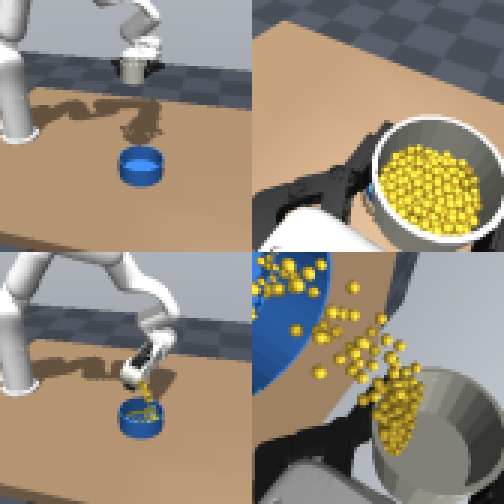
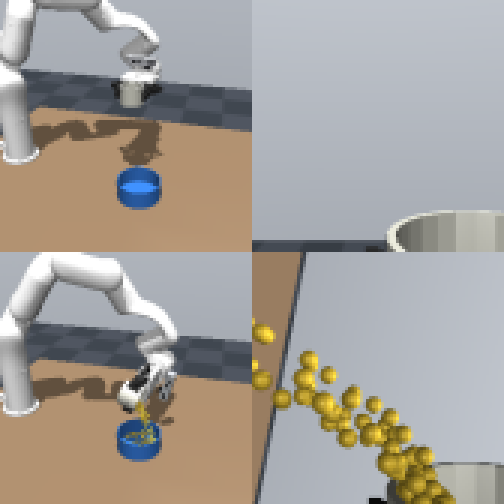
sim_xarm: RealSense D435 cameras, wrist D435 body on the gripper housing (lab photo), demo states saved by default
- Both cameras D435: colour 640x480, vertical FOV 42 deg. Wrist D435 as mounted in the lab:
  90x25x25 mm housing on a 12 mm bracket on the housing top near the flange, looking straight
  forward; collision body, visible in the viewer and the side camera. Side camera re-aimed so the
  whole pour stays in frame.
- m4_generate saves MuJoCo states by default (--no-states for timing only); m5_export stops with a
  clear message on episodes without states or images.
- view.py --camera eye_in_hand|agentview.
- Checks: 100 plans with the camera body contact-free, M1 f 1.000, 5-demo export loads in
  diffusion_policy, camera/fault tests pass.

Claude-Session: https://claude.ai/code/session_01ABg54f59N8u1Lt2EQujtwg

diff --git a/sim_xarm/favor_xarm/scene.py b/sim_xarm/favor_xarm/scene.py
@@ -273,6 +273,55 @@ def _add_cameras(spec, cfg, gripper_body):
         else:
             cam.fovy = float(intr["fovy_deg"])
         cam.resolution = [intr["width"], intr["height"]]
+        if c.get("body", {}).get("enabled", False):
+            _add_camera_body(spec, parent, name, pos, quat, c["body"])
+
+
+def _add_camera_body(spec, parent, name, pos, quat, b):
+    """Physical camera housing (and optional bracket) for a camera, so it shows up in the viewer and
+    in the other camera's images and is part of the collision checks.
+
+    b.size     : housing [width (camera x), height (camera y), depth (along the optical axis)], m.
+                 RealSense D435: 90 x 25 x 25 mm.
+    b.lens     : position of the colour lens on the front face relative to the face centre, in the
+                 camera frame [x, y] (x = image right, y = image up). The camera pose (extrinsics)
+                 is the colour lens; the housing is placed so that lens sits at this offset.
+    b.lenses_x : x of the visible lens discs on the front face (decoration only, no collision).
+    b.bracket  : {from: point on the parent body (parent frame), at_x: x on the housing bottom face
+                 where the bracket meets it (camera frame), width, thickness}.
+    The housing lies behind the image plane (the camera looks along -z), so it never occludes its
+    own image."""
+    R = np.zeros(9)
+    mujoco.mju_quat2Mat(R, np.asarray(quat, float))
+    R = R.reshape(3, 3)
+    w, hgt, dep = b.get("size", [0.090, 0.025, 0.025])
+    lx, ly = b.get("lens", [0.0, 0.0])
+    spec.add_material(name=f"{name}_body_mat", rgba=b.get("rgba", [0.70, 0.71, 0.73, 1.0]))
+    spec.add_material(name=f"{name}_bracket_mat", rgba=[0.08, 0.08, 0.09, 1.0])
+    face = np.asarray(pos, float) - R @ np.array([lx, ly, 0.0])          # front-face centre
+    centre = face + R @ np.array([0.0, 0.0, dep / 2 + 0.001])
+    parent.add_geom(name=f"{name}_housing", type=mujoco.mjtGeom.mjGEOM_BOX, size=[w / 2, hgt / 2, dep / 2],
+                    pos=centre.tolist(), quat=list(quat), material=f"{name}_body_mat", mass=b.get("mass", 0.072))
+    for k, x in enumerate(b.get("lenses_x", [lx])):
+        lp = face + R @ np.array([x, ly, 0.0005])
+        parent.add_geom(name=f"{name}_lens{k}", type=mujoco.mjtGeom.mjGEOM_CYLINDER, size=[0.0045, 0.0004, 0],
+                        pos=lp.tolist(), quat=list(quat), rgba=[0.02, 0.02, 0.03, 1], contype=0, conaffinity=0,
+                        group=1, mass=0.0)
+    br = b.get("bracket")
+    if br:
+        a = np.asarray(br["from"], float)
+        top = centre + R @ np.array([br.get("at_x", 0.0), -hgt / 2, 0.0])
+        v = top - a
+        L = float(np.linalg.norm(v))
+        zax = v / L
+        ref = R[:, 2] if abs(np.dot(R[:, 2], zax)) < 0.9 else R[:, 0]   # bracket plate faces the optical axis
+        xax = np.cross(ref, zax)
+        xax /= np.linalg.norm(xax)
+        Rb = np.stack([xax, np.cross(zax, xax), zax], axis=1)
+        parent.add_geom(name=f"{name}_bracket", type=mujoco.mjtGeom.mjGEOM_BOX,
+                        size=[br.get("width", 0.020) / 2, br.get("thickness", 0.004) / 2, L / 2],
+                        pos=(a + v / 2).tolist(), quat=_quat_from_mat(Rb).tolist(),
+                        material=f"{name}_bracket_mat", mass=b.get("bracket_mass", 0.02))
 
 
 def build_scene(cfg, n_particles=None):

diff --git a/sim_xarm/scripts/m4_generate.py b/sim_xarm/scripts/m4_generate.py
@@ -4,11 +4,12 @@ Each episode: reset (bowl at a grid cell or uniform sample, seed) -> scripted pl
 commanded joint targets executed through the command layer -> weigh after settle_after.
 Per episode an .npz is written with, per policy step t (observation BEFORE action t):
   actions (T,7) commanded joint targets, robot0_eef_pos (T,3), robot0_eef_quat (T,4, xyzw),
-  robot0_joint_pos (T,7), optionally states (T, nq) float32 for offline rendering (--save-states)
+  robot0_joint_pos (T,7), states (T, nq) float32 for offline image rendering by m5_export.py
+  (on by default; --no-states only for timing runs: such episodes cannot be exported)
   and images (--images), plus the plan parameters and the metrics.
 A summary.csv row per episode is appended; scripts/m4_report.py builds the per-cell table.
 
-  python scripts/m4_generate.py --out out/m4 --reps 10 --workers 8 --save-states
+  OMP_NUM_THREADS=1 python scripts/m4_generate.py --out out/m4 --reps 10 --workers 10
 """
 import argparse
 import csv
@@ -81,7 +82,8 @@ def main():
     ap.add_argument("--cells", type=str, default=None, help="comma-separated grid indices (default all)")
     ap.add_argument("--base-seed", type=int, default=0)
     ap.add_argument("--workers", type=int, default=1)
-    ap.add_argument("--save-states", action="store_true")
+    ap.add_argument("--no-states", action="store_true", help="do not save MuJoCo states (episodes then cannot be exported)")
+    ap.add_argument("--save-states", action="store_true", help=argparse.SUPPRESS)   # kept for old commands; now the default
     ap.add_argument("--images", action="store_true", help="render the policy images online")
     args = ap.parse_args()
     cfg = from_args(args)
@@ -96,14 +98,14 @@ def main():
         for rep in range(args.reps):
             for gi in cells:
                 seed = args.base_seed + 1000 * gi + rep
-                jobs.append((cfg, ep, gi, rep, seed, None, out, args.save_states, args.images))
+                jobs.append((cfg, ep, gi, rep, seed, None, out, not args.no_states, args.images))
                 ep += 1
     else:
         rng = np.random.default_rng(args.base_seed)
         s, c = cfg["task"]["grid_size"], np.array(cfg["task"]["grid_center"])
         for ep in range(args.n):
             xy = c + rng.uniform(-s / 2, s / 2, size=2)
-            jobs.append((cfg, ep, None, ep, args.base_seed + ep, xy, out, args.save_states, args.images))
+            jobs.append((cfg, ep, None, ep, args.base_seed + ep, xy, out, not args.no_states, args.images))
     done = set()
     summ = os.path.join(out, "summary.csv")
     if os.path.exists(summ):

diff --git a/sim_xarm/scripts/view.py b/sim_xarm/scripts/view.py
@@ -4,6 +4,7 @@
   python scripts/view.py --cells 0,24 --speed 0.5
   python scripts/view.py --idle                  # robot holds home, beads settle; inspect the scene
   python scripts/view.py --fault-joint 6         # locked J6 (no correction) to see the effect
+  python scripts/view.py --camera eye_in_hand    # look through the wrist camera (or agentview)
 
 Viewer: drag to rotate / right-drag to pan / scroll to zoom; '[' and ']' cycle the scene cameras
 (agentview = side camera, eye_in_hand = wrist camera), Esc returns to the free camera.
@@ -69,6 +70,8 @@ def main():
     ap.add_argument("--idle", action="store_true", help="no motion, just hold home")
     ap.add_argument("--once", action="store_true", help="play each cell once, then keep the window open")
     ap.add_argument("--fault-joint", type=int, default=None, help="1..7, locked at home (no correction)")
+    ap.add_argument("--camera", choices=["free", "agentview", "eye_in_hand"], default="free",
+                    help="start looking through a scene camera ('[' / ']' switch, Esc = free camera)")
     ap.add_argument("--headless-steps", type=int, default=None, help=argparse.SUPPRESS)  # self-test without a display
     args = ap.parse_args()
     cfg = from_args(args)
@@ -92,6 +95,9 @@ def main():
     with mujoco.viewer.launch_passive(env.m, env.d) as v:
         v.cam.lookat[:] = [cfg["task"]["grid_center"][0] - 0.05, cfg["task"]["grid_center"][1], 0.15]
         v.cam.distance, v.cam.azimuth, v.cam.elevation = 1.3, -150.0, -25.0
+        if args.camera != "free":
+            v.cam.type = mujoco.mjtCamera.mjCAMERA_FIXED
+            v.cam.fixedcamid = env.h.cameras[args.camera]
         env.fault = ViewerSync(v, args.speed, inner=fault)
         k = 0
         while v.is_running():

diff --git a/sim_xarm/scripts/m5_export.py b/sim_xarm/scripts/m5_export.py
@@ -49,6 +49,9 @@ def _render_episode(args):
     imgs = {"agentview_image": [], "robot0_eye_in_hand_image": []}
     if "agentview_image" in z.files:
         return path, {k: z[k] for k in imgs}
+    if "states" not in z.files:
+        raise SystemExit(f"{os.path.basename(path)} has neither images nor states: it was generated with "
+                         "--no-states and cannot be exported. Re-generate it without --no-states.")
     for s in z["states"]:
         env.d.qpos[:] = s
         env.d.qvel[:] = 0
@@ -81,6 +84,11 @@ def main():
     if args.n is not None:
         keep = keep[:args.n]
     print(f"{len(files)} episodes, {len(keep)} kept ({args.filter})", flush=True)
+    if not keep:
+        raise SystemExit("no episodes to export")
+    z0 = np.load(keep[0])
+    if "states" not in z0.files and "agentview_image" not in z0.files:
+        raise SystemExit("episodes have neither images nor states (generated with --no-states); re-generate them")
     jobs = [(p, cfg, args.render_size) for p in keep]
     t0 = time.time()
     if args.workers > 1:

diff --git a/sim_xarm/README.md b/sim_xarm/README.md
@@ -67,8 +67,14 @@ earlier hanging-cup layout (yaw −120°); re-run them for the current layout (R
   ≥ ~65 mm above the rim, pour direction 0° (away from the robot) is collision-free everywhere with
   ≥ 0.5 rad margin on J2/J4/J6 (`task.scripted.lip_height: [0.065, 0.085]`).
   Home: `[0.7423, 0.3094, −0.1474, 1.0617, −1.0825, 1.9405, 2.4654]` (cup mouth (0.40, 0, 0.30) m, lip +x).
-- **Wrist camera**: above the gripper housing, in front of it, looking down past the cup towards
-  the lip side (cup mouth, bowl and bead stream in view).
+- **Cameras = RealSense D435** (both), colour 640 × 480, vertical FOV 42°. The wrist D435 is modelled
+  as in the lab photo (2026-11-07): 90 × 25 × 25 mm housing on a 12 mm bracket on the gripper
+  housing top near the flange, long side along the finger axis, looking straight forward; it is a
+  collision body and appears in the side camera's images. Looking forward, the wrist image shows
+  mostly the cup rim and background and the bowl only during the pour; tilting it down does not
+  show the cup interior (the camera is only ~36 mm above the cup mouth). Tilt is one config value.
+- **Demo states are saved by default** (`m4_generate.py --no-states` only for timing runs): the
+  exporter renders the policy images from them and refuses episodes without them.
 - **Physics**: CG solver, 20 iterations, 2 ms (Newton: ~700 ms per step with ~2,500 bead DoFs;
   10 CG iterations let beads through the walls). Cup and bowl have invisible collision shells 8 mm
   thicker than the visual walls (beads tunnelled through 3–4 mm walls).
@@ -104,13 +110,13 @@ compensation. Force limits not checked against rated torques (**TODO(real)**). F
 ## Running the milestones (one line each, from `sim_xarm/`)
 
 ```bash
-python scripts/view.py                                        # interactive viewer, scripted pours (needs a display)
+python scripts/view.py [--camera eye_in_hand]                  # interactive viewer, scripted pours (needs a display)
 python scripts/m0_inspect_model.py
 python scripts/solve_home.py                                   # prints home_q for config
 python scripts/m1_scene_check.py                               # reports/m1_scene.md numbers
 python scripts/m2_step_response.py                             # reports/m2_step_response.png
 python scripts/m3_fk_check.py && python tests/test_ik_xarm.py && python tests/test_panda_ik_unchanged.py
-python scripts/m4_generate.py --out out/m4 --reps 10 --workers 16 --save-states
+OMP_NUM_THREADS=1 python scripts/m4_generate.py --out out/m4 --reps 10 --workers 10   # 10 = physical cores
 python scripts/m4_report.py --run out/m4
 python scripts/m5_export.py --run out/m4 --out out/xarm_pour_200.hdf5 --n 200 --filter success --workers 16
 DIFFUSION_POLICY_ROOT=../diffusion_policy python tests/test_dp_dataset.py out/xarm_pour_200.hdf5
